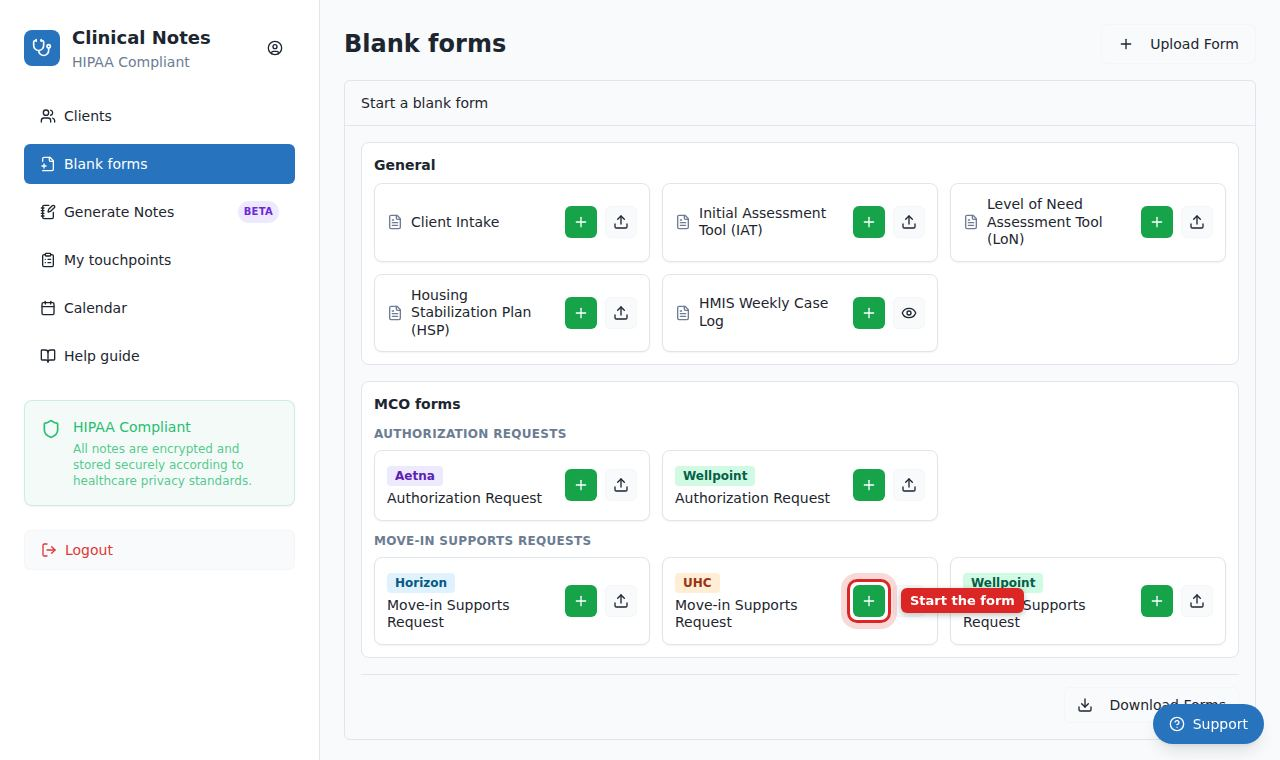
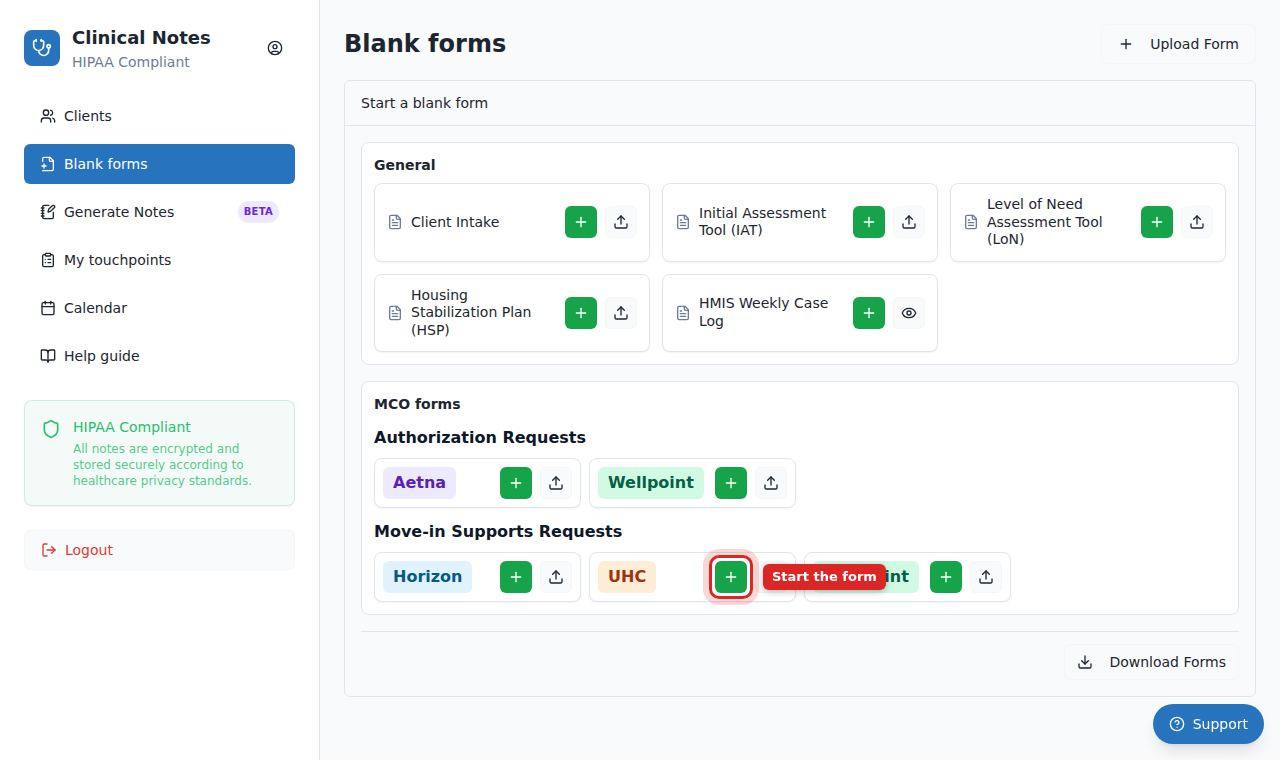
Blank forms: MCO cards show the MCO name only, bold group titles, smaller cards
Claude-Session: https://claude.ai/code/session_012TZTkqWFZbcufo1uEC7hhK

diff --git a/src/components/forms/FormsHub.tsx b/src/components/forms/FormsHub.tsx
@@ -72,7 +72,7 @@ import { UHC_FORM_TYPE, UHC_MCO } from '@/lib/uhcMoveIn/model';
 
 /** The MCO forms, by what they ask for. */
 const MCO_GROUPS = [
-  { formType: 'Prior Authorization Request', title: 'Authorization requests', cardTitle: 'Authorization', fullTitle: 'Authorization Request' },
+  { formType: 'Prior Authorization Request', title: 'Authorization Requests', cardTitle: 'Authorization', fullTitle: 'Authorization Request' },
   { formType: 'Move-In Supports Request', title: 'Move-in Supports Requests', cardTitle: 'Move-in Supports', fullTitle: 'Move-in Supports Request' },
 ];
 
@@ -465,16 +465,20 @@ export const FormsHub: React.FC<FormsHubProps> = ({ view = 'forms' }) => {
   const formCard = (c: { key: string; title: string; fullTitle?: string; mco?: string; onFill: () => void; onUpload: () => void }) => {
     const name = c.mco ? `${MCO_SHORT[c.mco] ?? c.mco} ${c.fullTitle ?? c.title}` : c.title;
     return (
-      <Card key={c.key} className="flex items-center gap-2 p-3">
-        {!c.mco && <FileText className="h-4 w-4 text-muted-foreground shrink-0" />}
-        <div className="min-w-0 flex-1">
-          {c.mco && (
-            <span className={`mb-1 inline-block rounded px-2 py-0.5 text-xs font-bold ${MCO_TAG[c.mco] ?? 'bg-muted text-foreground'}`}>
+      <Card key={c.key} className={`flex items-center gap-2 ${c.mco ? 'p-2' : 'p-3'}`}>
+        {c.mco ? (
+          // The group heading says which form; the card only says whose.
+          <div className="min-w-0 flex-1">
+            <span className={`inline-block rounded-md px-2.5 py-1 text-base font-bold ${MCO_TAG[c.mco] ?? 'bg-muted text-foreground'}`}>
               {MCO_SHORT[c.mco] ?? c.mco}
             </span>
-          )}
-          <div className="text-sm font-medium leading-tight">{c.mco ? c.fullTitle ?? c.title : c.title}</div>
-        </div>
+          </div>
+        ) : (
+          <>
+            <FileText className="h-4 w-4 text-muted-foreground shrink-0" />
+            <div className="min-w-0 flex-1 text-sm font-medium leading-tight">{c.title}</div>
+          </>
+        )}
         {/* The card already says which form this is; the labels are for
             somebody who cannot see it. */}
         <div className="ml-auto flex shrink-0 items-center gap-2">
@@ -567,8 +571,8 @@ export const FormsHub: React.FC<FormsHubProps> = ({ view = 'forms' }) => {
             <h3 className="text-sm font-semibold">MCO forms</h3>
             {MCO_GROUPS.map((g) => (
               <div key={g.formType} className="space-y-2">
-                <h4 className="text-xs font-semibold uppercase tracking-wide text-muted-foreground">{g.title}</h4>
-                <div className="grid gap-3 sm:grid-cols-2 lg:grid-cols-3">
+                <h4 className="text-base font-bold text-slate-900">{g.title}</h4>
+                <div className="grid gap-2 sm:grid-cols-3 lg:grid-cols-4">
                   {mcoForms(g.formType).map((f) =>
                     formCard({ key: f.key, title: g.cardTitle, fullTitle: g.fullTitle, mco: f.mco, onFill: f.onFill, onUpload: () => uploadFor(g.formType) }),
                   )}
